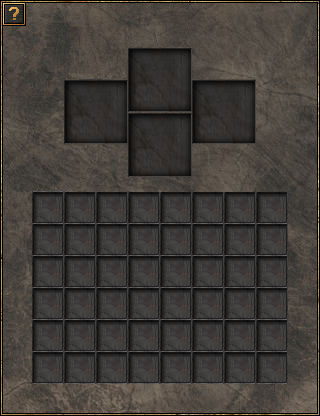
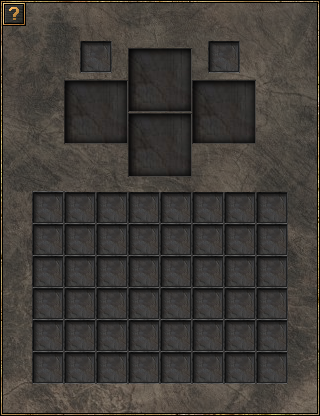
Support adding new slots. Only artifact for now.

Changed region(s): [[0.625, 0.0938, 0.75, 0.1875], [0.25, 0.0938, 0.375, 0.1875]]

diff --git a/src/MenuInventory.cpp b/src/MenuInventory.cpp
@@ -65,8 +65,7 @@ MenuInventory::MenuInventory(ItemManager *_items, StatBlock *_stats, PowerManage
 			} else if(infile.key == "equipment_slot") {
 				equipment_slot.x = eatFirstInt(infile.val,',');
 				equipment_slot.y = eatFirstInt(infile.val,',');
-				equipment_slot.w = ICON_SIZE_LARGE;
-				equipment_slot.h = ICON_SIZE_LARGE;
+				equipment_slot.w = equipment_slot.h = eatFirstInt(infile.val,',');
 				equipped_area.push_back(equipment_slot);
 				slot_type.push_back(eatFirstString(infile.val,','));
 				slot_desc.push_back(eatFirstString(infile.val,','));
@@ -122,7 +121,7 @@ void MenuInventory::update() {
 	carried_area.w = carried_cols*ICON_SIZE_SMALL;
 	carried_area.h = carried_rows*ICON_SIZE_SMALL;
 
-	inventory[EQUIPMENT].init(MAX_EQUIPPED, items, equipped_area, ICON_SIZE_LARGE, slot_type);
+	inventory[EQUIPMENT].init(MAX_EQUIPPED, items, equipped_area, slot_type);
 	inventory[CARRIED].init(MAX_CARRIED, items, carried_area, ICON_SIZE_SMALL, carried_cols);
 
 	closeButton->pos.x = window_area.x+close_pos.x;
@@ -621,7 +620,7 @@ void MenuInventory::applyEquipment(ItemStack *equipped) {
 	{
 		checkRequired = false;
 		stats->offense_additional = stats->defense_additional = stats->physical_additional = stats->mental_additional = 0;
-		for (int i = 0; i < 4; i++) {
+		for (int i = 0; i < MAX_EQUIPPED; i++) {
 			int item_id = equipped[i].item;
 			const Item &item = pc_items[item_id];
 			bonus_counter = 0;
@@ -643,7 +642,7 @@ void MenuInventory::applyEquipment(ItemStack *equipped) {
 				bonus_counter++;
 			}
 		}
-		for (int i = 0; i < 4; i++) {
+		for (int i = 0; i < MAX_EQUIPPED; i++) {
 			if (!requirementsMet(equipped[i].item)) {
 				add(equipped[i]);
 				equipped[i].item = 0;
@@ -716,7 +715,7 @@ void MenuInventory::applyEquipment(ItemStack *equipped) {
 	}
 
 	// apply bonuses from all items
-	for (int i=0; i<4; i++) {
+	for (int i=0; i<MAX_EQUIPPED; i++) {
 		item_id = equipped[i].item;
 		const Item &item = pc_items[item_id];
 		bonus_counter = 0;

diff --git a/src/MenuItemStorage.cpp b/src/MenuItemStorage.cpp
@@ -35,22 +35,22 @@ void MenuItemStorage::init(int _slot_number, ItemManager *_items, SDL_Rect _area
 /**
  * Overloaded function for case, if slot positions are predefined
  */
-void MenuItemStorage::init(int _slot_number, ItemManager *_items, vector<SDL_Rect> _area, int _icon_size, vector<string> _slot_type) {
+void MenuItemStorage::init(int _slot_number, ItemManager *_items, vector<SDL_Rect> _area, vector<string> _slot_type) {
 	ItemStorage::init( _slot_number, _items);
 	area = _area;
-	icon_size = _icon_size;
+	icon_size = 0;
 	nb_cols = 0;
 	slot_type = _slot_type;
 	drag_prev_slot = -1;
 }
 
 void MenuItemStorage::render() {
-	//FIXME Put item into slot based on item type, not order
+	//FIXME If slot order was changed, items will be equipped in wrong slots
 	for (int i=0; i<slot_number; i++) {
 		if (storage[i].item > 0 && nb_cols > 0) {
 			items->renderIcon(storage[i], area[0].x + (i % nb_cols * icon_size), area[0].y + (i / nb_cols * icon_size), icon_size);
 		} else if (storage[i].item > 0 && nb_cols == 0) {
-			items->renderIcon(storage[i], area[i].x, area[i].y, icon_size);
+			items->renderIcon(storage[i], area[i].x, area[i].y, area[i].w);
 		}
 	}
 }

diff --git a/src/MenuItemStorage.h b/src/MenuItemStorage.h
@@ -38,7 +38,7 @@ protected:
 
 public:
 	void init(int _slot_number, ItemManager *_items, SDL_Rect _area, int icon_size, int nb_cols);
-	void init(int _slot_number, ItemManager *_items, std::vector<SDL_Rect> _area, int icon_size, std::vector<std::string> _slot_type);
+	void init(int _slot_number, ItemManager *_items, std::vector<SDL_Rect> _area, std::vector<std::string> _slot_type);
 
 	// rendering
 	void render();
